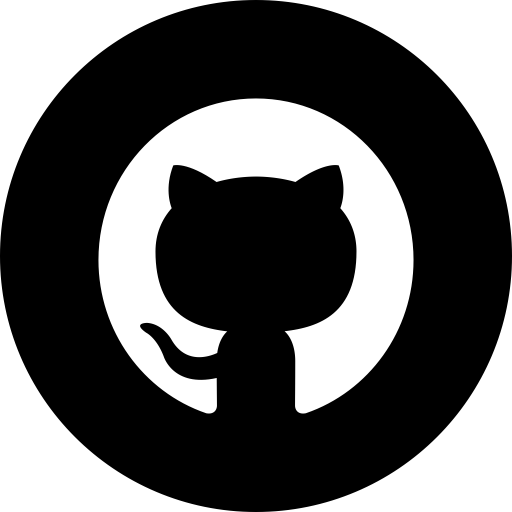
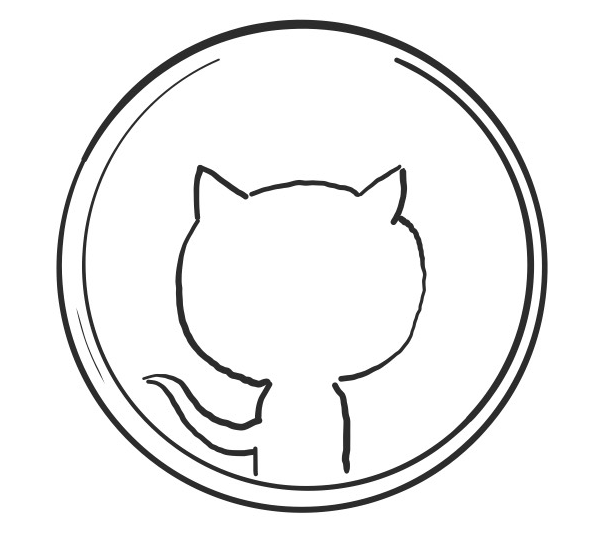
created own iconography and put links to linkedin and github where education and experience blocks previously were located.

diff --git a/index.html b/index.html
@@ -26,9 +26,6 @@
     <div id="navbar-row" class="row">
         <nav>
             <div class="nav-wrapper #000000 black">
-                <div class="col">
-                    <a href="https://www.linkedin.com/in/nicole-marty-25641627/"><span class="icon-linkedin grey-text"></span></a>
-                </div>
 
             </div>
         </nav>
@@ -49,14 +46,14 @@
                 <div class="col s12 m4 l4">
                     <div class="card">
                         <div class="card-content center">
-                            <span class="icon-tools"></span>
+                            <img id="github" src="assets/images/github-icon.png">
                             <br></br>
-                            <p>Happy to be learning more and expanding my skill set. I believe there's no end to learning.</p>
+                            <p>Take a look at how I code and what is only the beginning of what I intend to accomplish. There is no limit to what I am willing to learn and create.</p>
 
                         </div>
                         <div class="card-action">
-                            <a href="education.html">
-                                <h6 class="#212121 grey-text darken-4-text">EDUCATION</h6>
+                            <a href="https://github.com/NicoleMarty">
+                                <h6 class="#212121 grey-text darken-4-text">MY CODE</h6>
                             </a>
                         </div>
                     </div>
@@ -64,13 +61,13 @@
                 <div class="col s12 m4 l4">
                     <div class="card">
                         <div class="card-content center">
-                            <span class="icon-genius"></span>
+                            <img id="linkedin" src="assets/images/linkedin-icon.png">
                             <br></br>
-                            <p>Managed a website redesign process for a law firm which led to my interest in web development.</p>
+                            <p>Visit my Linkedin to find out more about my past experience and how I found myself in coding bootcamp at the University of Minnesota.</p>
                         </div>
                         <div class="card-action">
                             <a href="experience.html">
-                                <h6 class="#212121 grey-text darken-4-text">EXPERIENCE</h6>
+                                <h6 class="#212121 grey-text darken-4-text"> MY EXPERIENCE</h6>
                             </a>
                         </div>
                     </div>
@@ -78,13 +75,13 @@
                 <div class="col s12 m4 l4">
                     <div class="card">
                         <div class="card-content center">
-                            <span class="icon-camera"></span>
+                            <img id="valueadd" src="assets/images/valueadd-icon.png">
                             <br></br>
-                            <p>My hobbies in a nutshell: graphic design, digital illustration, collage, music, good books, and dance.</p>
+                            <p> I created the iconography for my portfolio and take pleasure in anything artistc from digital illustration and graphic design to fashion design, music, and dance.</p>
                         </div>
                         <div class="card-action">
                             <a href="hobbies.html">
-                                <h6 class="#212121 grey-text darken-4-text">HOBBIES</h6>
+                                <h6 class="#212121 grey-text darken-4-text">MY VALUE ADD</h6>
                             </a>
                         </div>
                     </div>

diff --git a/assets/css/materialize.min.css b/assets/css/materialize.min.css
@@ -27,6 +27,17 @@ a {
     text-align: center;
 }
 
+#valueadd,
+#github {
+    max-width: 6rem;
+    max-height: 6rem;
+}
+
+#linkedin {
+    max-width: 5.5rem;
+    max-height: 5.5rem;
+}
+
 
 /* MEDIA BREAKPOINTS FOR HEADER IMAGE AT DIFFERENT SCREEN SIZES */
 
